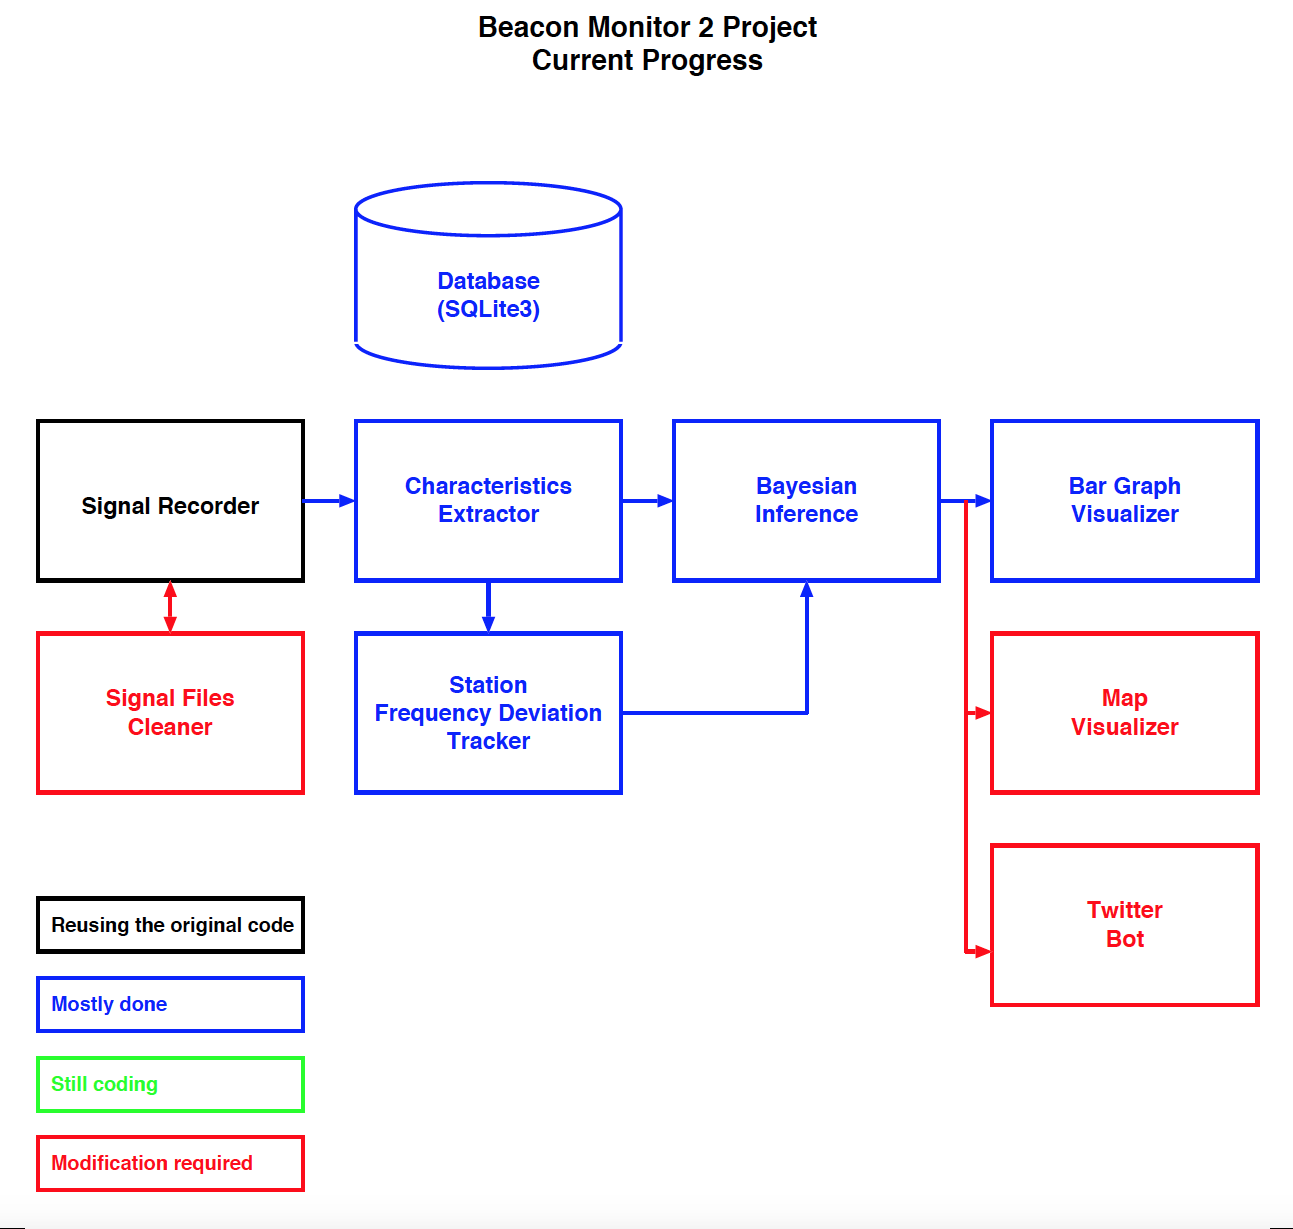
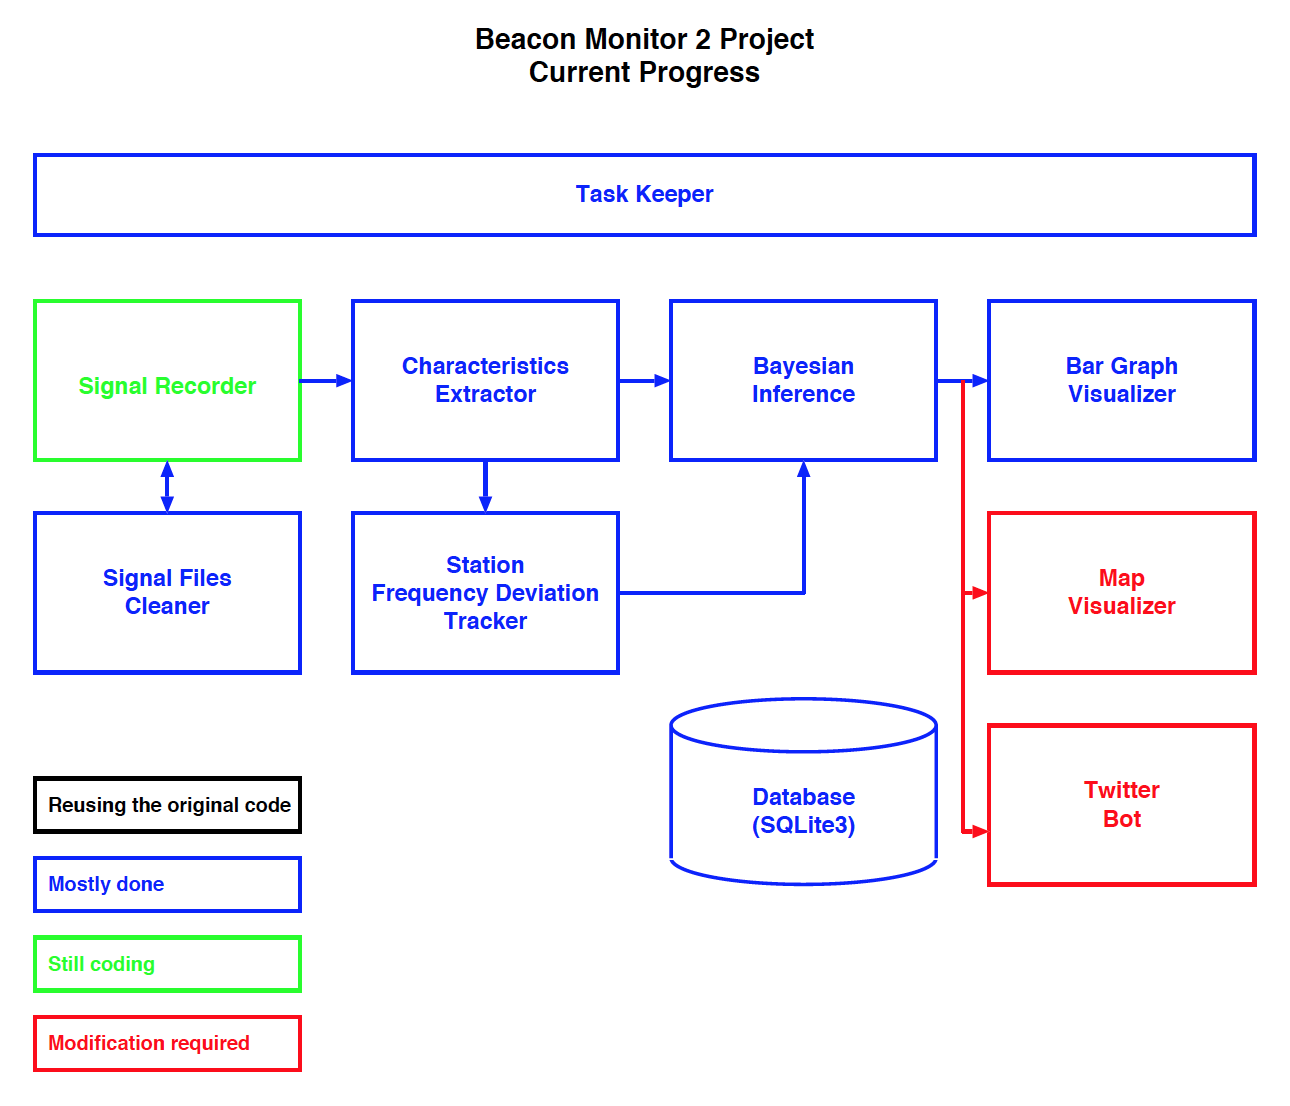
Updated README.md about progress

diff --git a/README.md b/README.md
@@ -21,18 +21,14 @@ Bash.
 
 # Current Status
 
-The following shows the current progress.  (As of Nov. 15, 2017)
+The following shows the current progress.  (As of Nov. 18, 2017)
 
 ![Current Progress Diagram](./doc/diagram.png)
 
-- Decided to reuse the Signal Recorder until the entire system will be
-  rewritten by Python.  However, I guess I can provide the Signal
-  Recorder as a binary form for a while.
-
 - Migration software, which converts the output of Signal Recorder,
-  was almost written by Nov. 3.
+  was written by Nov. 3.
 
-- Database engine (using SQLite3) was done as of today.
+- Database engine (using SQLite3) was done as of Nov. 10.
 
 - Signal Characteristics Extractor was written by Nov. 6.
 
@@ -42,14 +38,17 @@ The following shows the current progress.  (As of Nov. 15, 2017)
 
 - Bar Graph Visualizer was written by Nov. 15.
 
+- Signal Cleaner was done by Nov. 17.
+
+- Task Keeper to run the above parts continuously, by Nov. 17.
+
+- Now coding Signal Recorder for SoftRock + PCM2980 USB CODEC adapter,
+  by ALSA library.
+
 - Remaining code which I need to complete are,
 
 	- Map Visualizer (may be postponed?)
 	- Twitter bot (may be postponed?)
-	- Signal Files Cleaner
-
-Now I'm also investigating if I can quickly write Signal Recorder by
-Python and ALSA library.
 
 I guess, if I won't face any business problems, the above code will be
 completed by end of this November or December.
